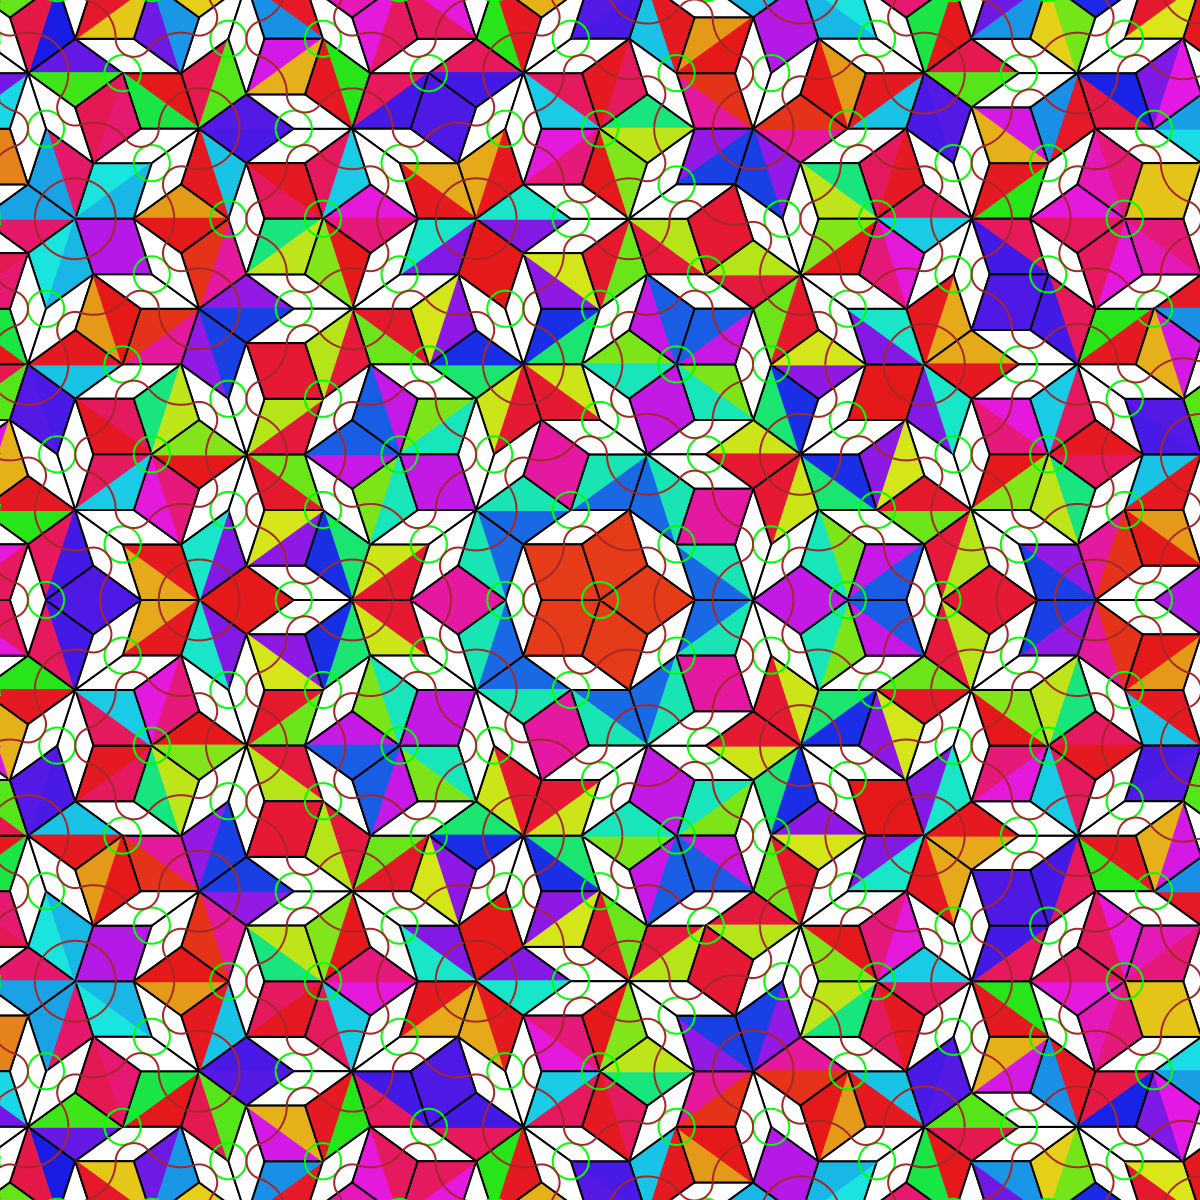
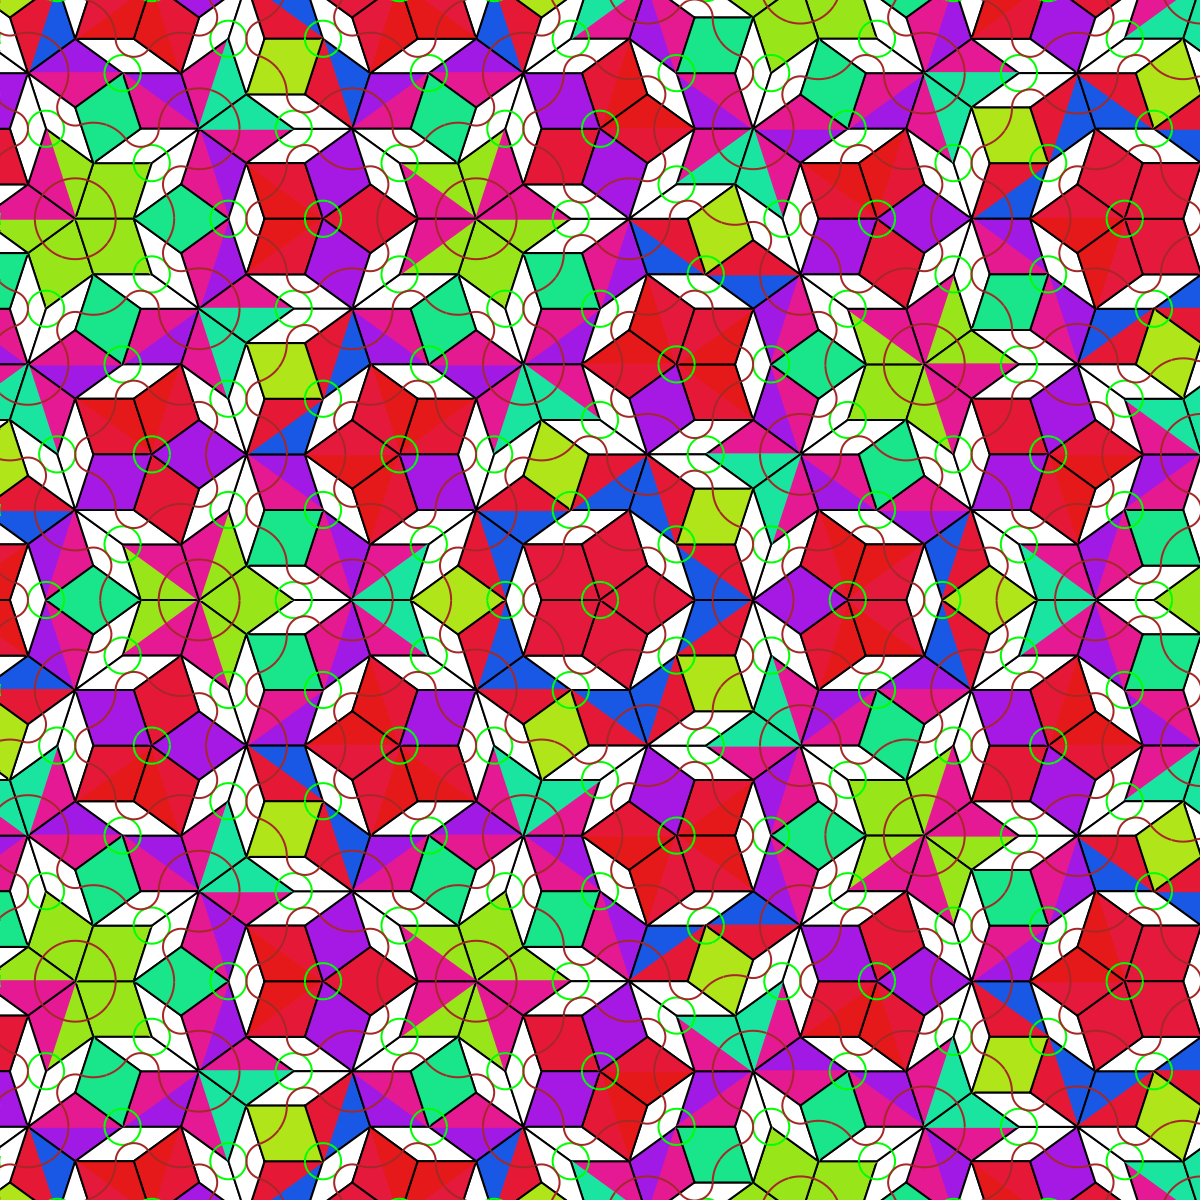
baseIndex = 27

diff --git a/penP3.go b/penP3.go
@@ -31,14 +31,14 @@ func (tri TriangleP3) split() []Shape {
 			G:           tri.B,
 			B:           A,
 			Type:        1,
-			index:       tri.index*3 + 1,
+			index:       (tri.index*3 + 1) % baseIndex,
 			graph_color: tri.graph_color,
 		}, TriangleP3{
 			R:           A,
 			G:           tri.R,
 			B:           tri.G,
 			Type:        0,
-			index:       tri.index * 3,
+			index:       (tri.index * 3) % baseIndex,
 			graph_color: tri.graph_color,
 		}}
 	} else {
@@ -49,21 +49,21 @@ func (tri TriangleP3) split() []Shape {
 			G:           tri.B,
 			B:           A,
 			Type:        1,
-			index:       tri.index*3 + 1,
+			index:       (tri.index*3 + 1) % baseIndex,
 			graph_color: tri.graph_color,
 		}, TriangleP3{
 			R:           B,
 			G:           tri.B,
 			B:           A,
 			Type:        0,
-			index:       tri.index * 3,
+			index:       (tri.index * 3) % baseIndex,
 			graph_color: tri.graph_color,
 		}, TriangleP3{
 			R:           A,
 			G:           tri.R,
 			B:           B,
 			Type:        1,
-			index:       tri.index*3 + 2,
+			index:       (tri.index*3 + 2) % baseIndex,
 			graph_color: tri.graph_color,
 		}}
 	}
@@ -170,6 +170,7 @@ func (tri TriangleP3) getLink() (ia string, ib string) {
 
 func penrose_P3(height float64, n int, filename string, graph_color bool) {
 	//var height float64 = 2400
+
 	var ra float64 = height*math.Sqrt(2) + 1.
 	A := complex(ra, 0)
 	rotator := cmplx.Exp(complex(0, math.Pi/5))

diff --git a/penrose.go b/penrose.go
@@ -8,6 +8,7 @@ import (
 )
 
 var phi = (math.Sqrt(5) - 1) / 2
+var baseIndex = 27
 
 type Shape interface {
 	split() []Shape
